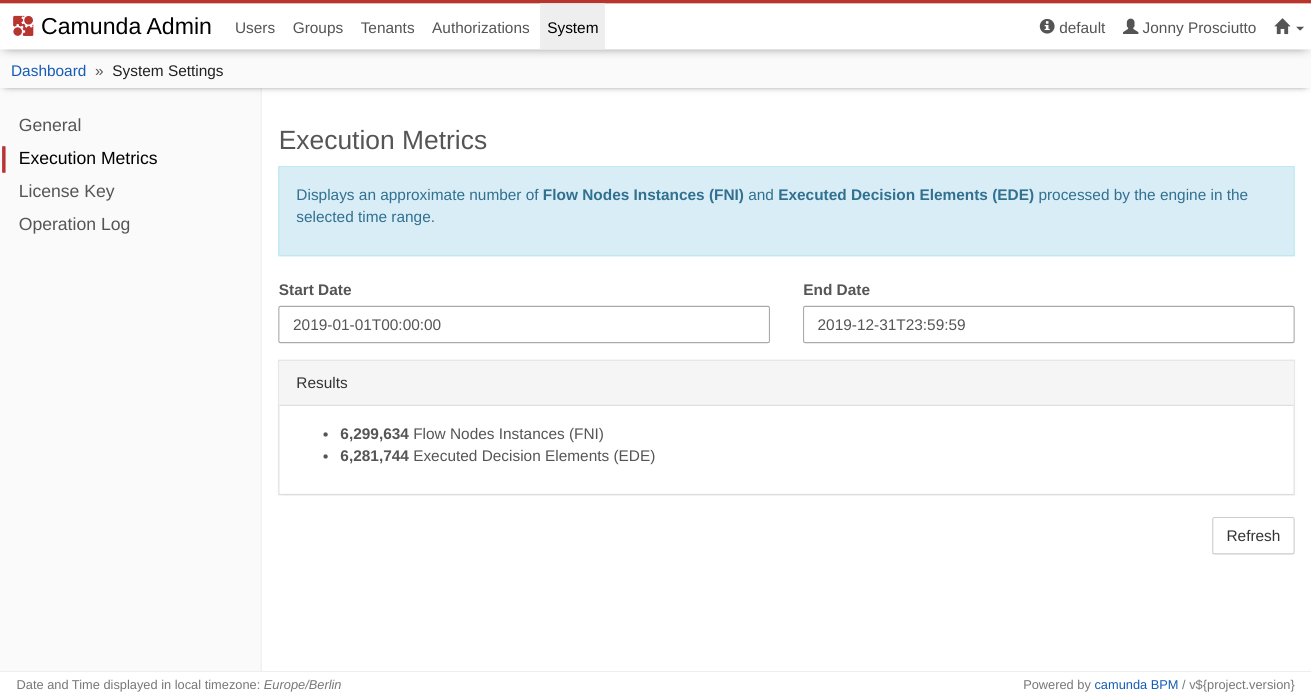
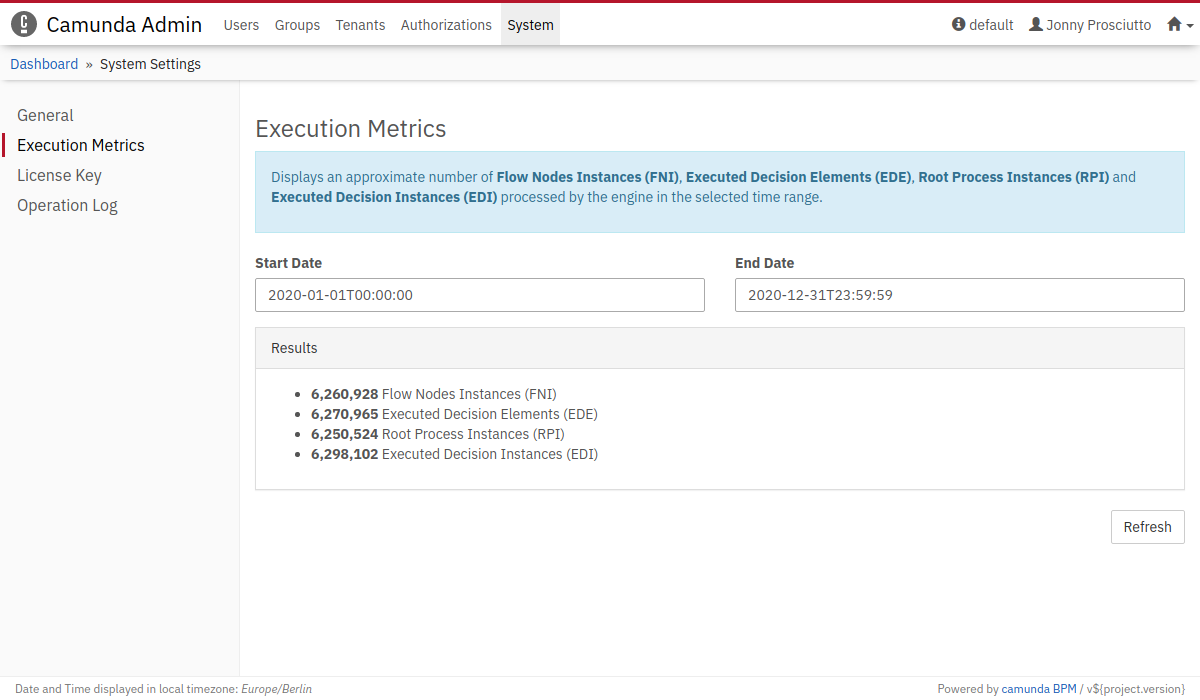
doc(engine): add new execution metrics
Related to CAM-11884, closes #553

diff --git a/content/user-guide/process-engine/metrics.md b/content/user-guide/process-engine/metrics.md
@@ -24,6 +24,13 @@ The following table describes the built-in metrics. The identifiers of all built
   </tr>
   <tr>
     <td><b>BPMN Execution</b></td>
+    <td>root-process-instance-start</td>
+    <td>The number of root process instance executions started. This is also known as <b>Root Process Instances (RPI)</b>.
+    A root process instance has no parent process instance, i.e. it is a top-level execution.
+    </td>
+  </tr>
+  <tr>
+    <td></td>
     <td>activity-instance-start</td>
     <td>The number of activity instances started. This is also known as <b>flow node instances (FNI)</b>.</td>
   </tr>
@@ -34,6 +41,11 @@ The following table describes the built-in metrics. The identifiers of all built
   </tr>
   <tr>
     <td><b>DMN Execution</b></td>
+    <td>executed-decision-instances</td>
+    <td>The number of evaluated decision instances (EDI). A decision instance is a DMN decision table or a DMN Literal Expression.</td>
+  </tr>
+  <tr>
+    <td></td>
     <td>executed-decision-elements</td>
     <td>The number of decision elements executed during evaluation of DMN decision tables. For one table, this is calculated as the number of clauses multiplied by the number of rules.</td>
   </tr>

diff --git a/content/webapps/admin/system-management.md b/content/webapps/admin/system-management.md
@@ -23,7 +23,9 @@ The System Settings menu is only usable by users which are granted with *All* pe
 
 {{< img src="../img/admin-execution-metrics.png" title="Execution Metrics" >}}
 
-The Execution Metrics menu in Admin displays an approximate number of *Flow Nodes Instances (FNI)* and *Executed Decision Elements (EDE)* that have been processed by the engine within a specified time range.
+The Execution Metrics menu in Admin displays an approximate number of *Root Process Instances (RPI)*,
+*Flow Nodes Instances (FNI)*, *Executed Decision Instances (EDI)* and *Executed Decision Elements (EDE)* that have been
+processed by the engine within a specified time range.
 
 
 # Camunda License Key
